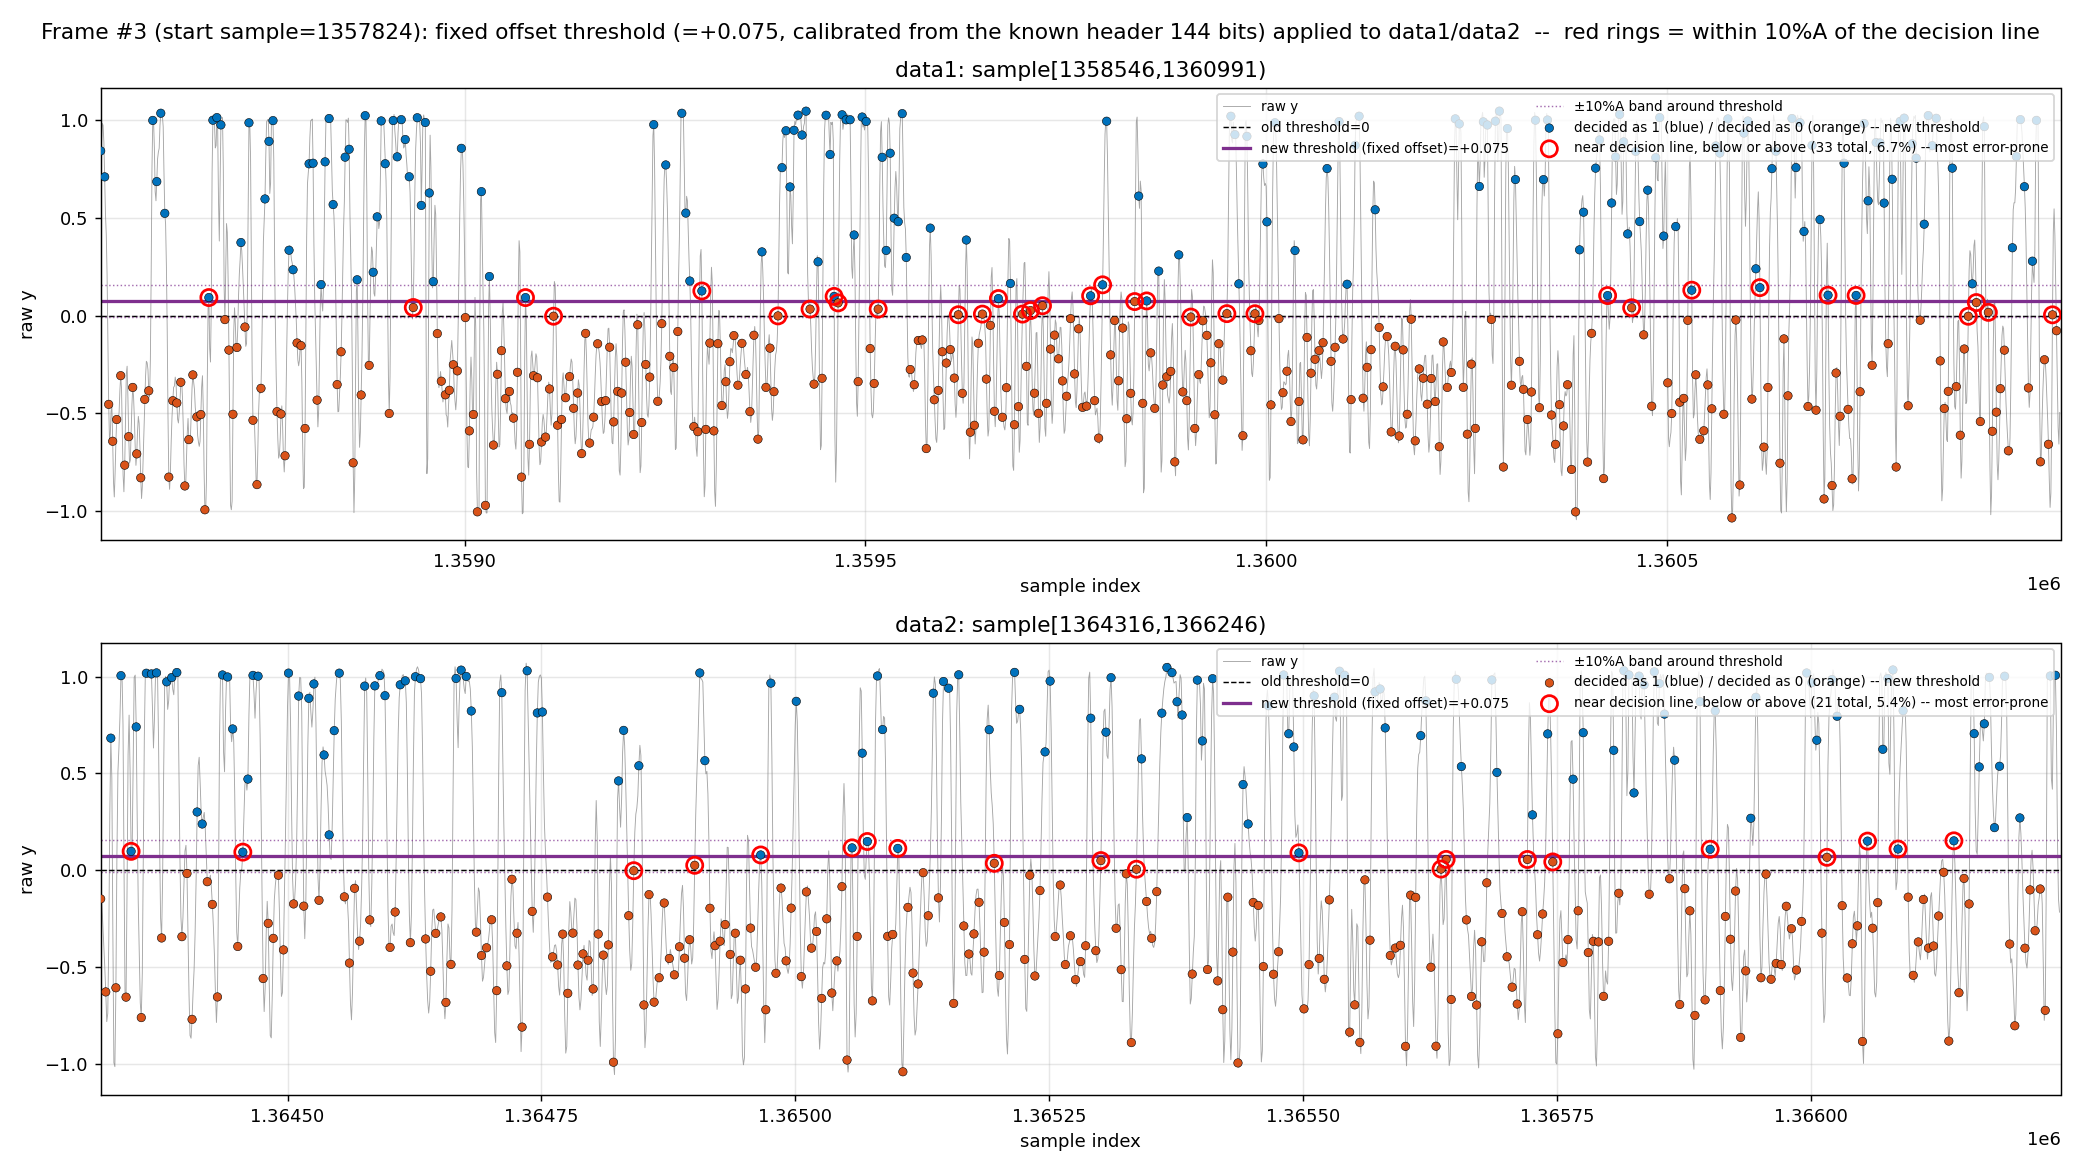
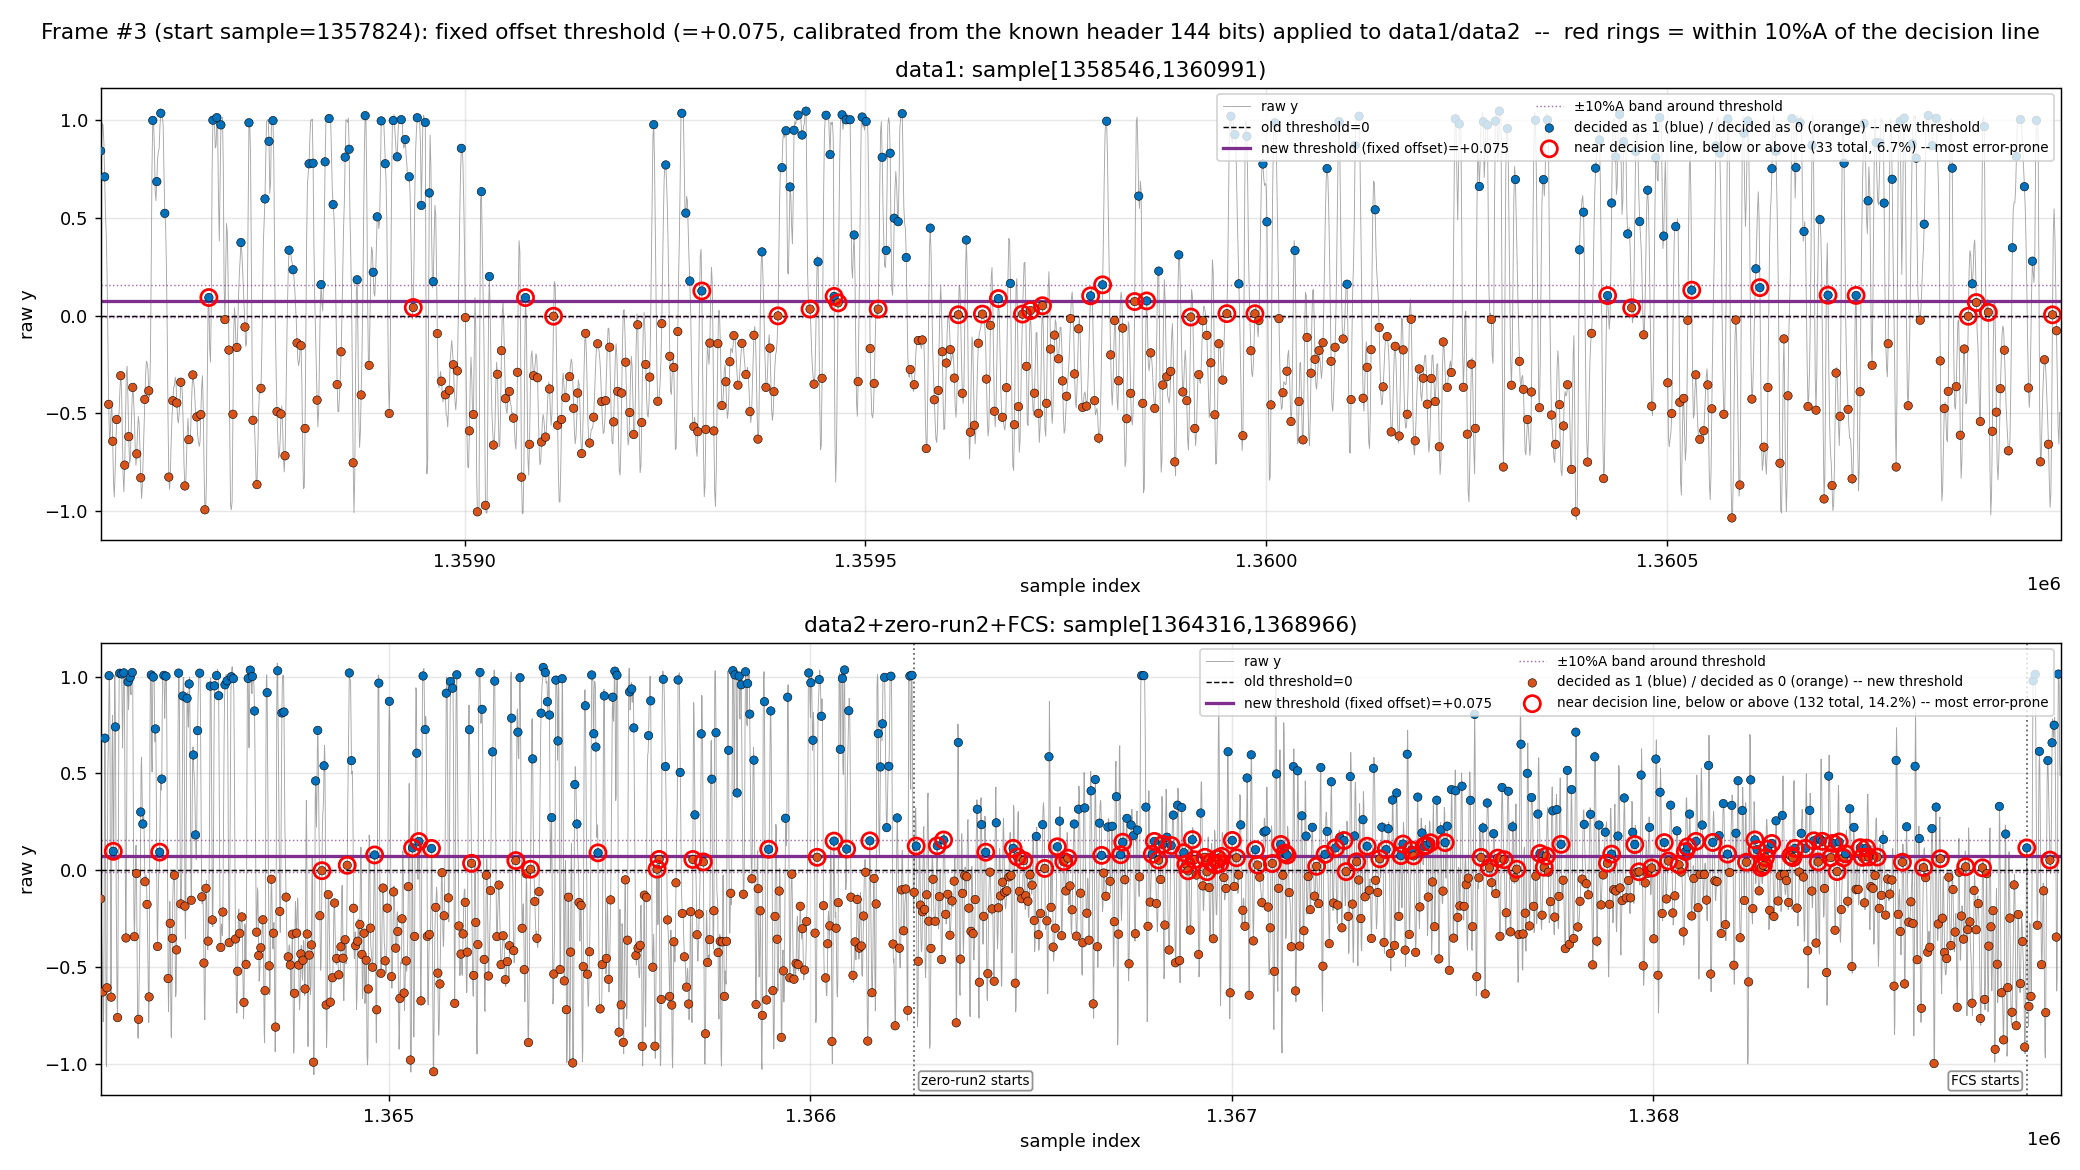
Extend 03b's data2 panel through zero-run2 and FCS
data2's plotted/analyzed range now runs through zero-run2 and the 2-byte
FCS instead of stopping at data2's natural end, with both boundaries
marked on the plot. Shows the header-calibrated threshold applied to the
all-zero padding and the CRC bits, not just the data2 telemetry -- most of
the added near-decision-line symbols land inside zero-run2, consistent
with 02_zero_run_baseline's isolated-1 findings. README updated to match.

Changed region(s): [[0.0312, 0.5231, 1.0, 0.9538], [0.375, 0.9231, 0.4062, 0.9538]]

diff --git a/03_data_segment_processing/03b_data_fixed_offset_threshold.py b/03_data_segment_processing/03b_data_fixed_offset_threshold.py
@@ -17,7 +17,9 @@ README). Once each frame's start is found:
   2. Use the "bypass method" (sample the raw y at a fixed rate and destuff it
      directly, without going through restore_baseline) to track each output
      bit's original sample index, and compute this frame's own exact
-     data1/data2 sample ranges.
+     data1/data2 sample ranges. data2's range is extended past its natural
+     end through zero-run2 and FCS (see GNURADIO_MIGRATION.md), with the
+     internal boundaries marked on the plot.
   3. Apply step 1's threshold to data1/data2 unchanged (assuming the
      asymmetry is a fixed property of the channel/demodulator, not dependent
      on content, and shared across the whole frame), overlaying the decision
@@ -171,7 +173,19 @@ def calibrate_offset_threshold(y, start):
 def get_data_segments(y, start):
     """Bypass method (sample the raw y at a fixed rate and destuff directly,
     without going through restore_baseline) to compute this frame's exact
-    data1/data2 sample ranges. Returns [(name, s0, s1), ...]."""
+    data1/data2 sample ranges.
+
+    data2's range is extended past its natural end (payload byte 206, where
+    zero-run2 begins) all the way through FCS (byte [272,274)), so the
+    second panel shows the header-calibrated threshold applied across
+    zero-run2 and the CRC too -- see GNURADIO_MIGRATION.md: FCS rides along
+    with the data segments rather than getting its own pass-through, since
+    its bits look like ordinary signal content, not the all-zero padding
+    zero-run2 is. `markers` records where those internal boundaries fall
+    (empty for data1) so the caller can annotate them.
+
+    Returns [(name, s0, s1, markers), ...] for data1 and extended data2,
+    where markers is a list of (label, sample_index)."""
     span_j1 = int(SEARCH_SAMPLES / SPS)
     idx_all = start + SPS * np.arange(0, span_j1) + PHASE
     ok = idx_all < y.size
@@ -179,6 +193,10 @@ def get_data_segments(y, start):
     body_bits_raw = (y[idx_all[32:]] > 0).astype(np.uint8)   # skip the leading 4 flags
     body_idx_raw = idx_all[32:]
     body_bits, body_sample_idx = destuff_with_map(body_bits_raw, body_idx_raw)
+
+    def sample_at_byte(byte_idx):
+        bit = min(byte_idx * 8, body_sample_idx.size - 1)
+        return int(body_sample_idx[bit])
 
     zero_runs = find_zero_runs(REF)
     segments = [("address", 0, 14)]
@@ -192,6 +210,7 @@ def get_data_segments(y, start):
         seg_id += 1
     if prev < 272:
         segments.append((f"data{seg_id}", prev, 272))
+    segments.append(("FCS", 272, 274))   # 2-byte CRC-16/X.25, appended after the 272-byte payload
 
     data_segs = []
     for label, b0, b1 in segments:
@@ -202,8 +221,23 @@ def get_data_segments(y, start):
             continue
         s0 = int(body_sample_idx[bit0])
         s1 = int(body_sample_idx[min(bit1, body_sample_idx.size) - 1]) + SPS
-        data_segs.append((label, s0, s1))
-    return data_segs[:2]   # data1, data2
+        data_segs.append([label, s0, s1, []])
+    data_segs = data_segs[:2]   # data1, data2
+
+    if len(data_segs) >= 2:
+        zero_run2 = next((seg for seg in segments if seg[0] == "zero-run2"), None)
+        fcs = segments[-1]   # ("FCS", 272, 274)
+        markers = []
+        if zero_run2 is not None:
+            markers.append(("zero-run2 starts", sample_at_byte(zero_run2[1])))
+        markers.append(("FCS starts", sample_at_byte(fcs[1])))
+        bit1_fcs = min(fcs[2] * 8, body_sample_idx.size)
+        s1_ext = int(body_sample_idx[bit1_fcs - 1]) + SPS
+        data_segs[1][0] = f"{data_segs[1][0]}+zero-run2+FCS"
+        data_segs[1][2] = s1_ext
+        data_segs[1][3] = markers
+
+    return [tuple(seg) for seg in data_segs]
 
 
 def plot_frame(plt, y, start, frame_no, z_score, data_segs, offset_thr, hdr_err):
@@ -219,7 +253,7 @@ def plot_frame(plt, y, start, frame_no, z_score, data_segs, offset_thr, hdr_err)
           f"  -> band = [{offset_thr-margin:+.4f}, {offset_thr+margin:+.4f}]")
 
     fig, axes = plt.subplots(2, 1, figsize=(16, 9))
-    for ax, (name, s0, s1) in zip(axes, data_segs):
+    for ax, (name, s0, s1, markers) in zip(axes, data_segs):
         j0 = round((s0 - start - PHASE) / SPS)
         j1 = round((s1 - start - PHASE) / SPS)
         idx_sym = start + SPS * np.arange(j0, j1) + PHASE
@@ -251,6 +285,17 @@ def plot_frame(plt, y, start, frame_no, z_score, data_segs, offset_thr, hdr_err)
                       edgecolors="red", linewidths=1.5, zorder=5,
                       label=f"near decision line, below or above ({near.sum()} total, "
                             f"{100*near.sum()/(j1-j0):.1f}%) -- most error-prone")
+
+        ylo, yhi = ax.get_ylim()
+        for label, s_marker in markers:
+            ax.axvline(s_marker, color="k", lw=1.0, ls=":", alpha=0.6)
+            near_right_edge = (s_marker - s0) > 0.85 * (s1 - s0)
+            dx, ha = (-4, "right") if near_right_edge else (4, "left")
+            # anchored at the bottom, not the top -- the legend sits upper-right,
+            # and markers can land close enough to the right edge to collide with it
+            ax.annotate(label, xy=(s_marker, ylo), xytext=(dx, 4),
+                       textcoords="offset points", fontsize=7.5, ha=ha, va="bottom",
+                       bbox=dict(boxstyle="round,pad=0.2", fc="white", ec="gray", alpha=0.85))
 
         ax.set_xlim(s0, s1)
         ax.set_xlabel("sample index")

diff --git a/03_data_segment_processing/README.md b/03_data_segment_processing/README.md
@@ -13,7 +13,7 @@ the header to data1/data2, presented via two scripts:
 | Script | Content | Output |
 |---|---|---|
 | `03a_data_asymmetry_check.py` | Shows the asymmetry itself: per-point color coding + each group's local moving average, to see whether the asymmetry drifts slowly with position | `Figure/03a_frame1.png`, `03a_frame2.png`, `03a_frame3.png` |
-| `03b_data_fixed_offset_threshold.py` | Applies the calibrated fixed offset threshold to data1/data2, overlaying the decision line, and rings every symbol sitting close to that line -- below **or** above it | `Figure/03b_frame1.png`, `03b_frame2.png`, `03b_frame3.png` |
+| `03b_data_fixed_offset_threshold.py` | Applies the calibrated fixed offset threshold to data1/data2, overlaying the decision line, and rings every symbol sitting close to that line -- below **or** above it. The second panel's range is extended past data2 through zero-run2 and FCS, with those boundaries marked | `Figure/03b_frame1.png`, `03b_frame2.png`, `03b_frame3.png` |
 
 Both scripts' frame detection uses the same method as
 [`01_frame_detection/`](../01_frame_detection/) (normalized
@@ -84,6 +84,12 @@ packet's (`../REFERENCE_FRAME.md`) known field boundaries (data1 = payload
 byte `[14,75)`, data2 = payload byte `[158,206)`) and convert them back into
 sample ranges, giving this frame's own exact `data1`/`data2` sample ranges.
 
+`03b` extends data2's range one step further, through zero-run2
+(`[206,272)`) and FCS (`[272,274)`, the 2-byte CRC-16/X.25 appended after the
+272-byte payload) -- so its second panel plots data2+zero-run2+FCS as one
+continuous span, with the zero-run2/FCS boundaries marked as vertical dotted
+lines. `03a` is unaffected and still plots data2 alone.
+
 ### 4a. Show the asymmetry (`03a`)
 
 Use $\theta^*$ to split each symbol in data1/data2 into "decided as 1" /
@@ -121,6 +127,11 @@ error-prone candidates. No bit error rate is computed -- the data segments'
 content changes frame to frame, so there's no reliable ground truth to
 compare against.
 
+The second panel's extended range (data2+zero-run2+FCS) applies $\theta^*$
+unchanged across all three -- i.e. it shows what the same header-calibrated
+threshold does to the all-zero padding and the CRC, not just the telemetry
+`03a` was built around.
+
 ## Key findings
 
 - **The asymmetry reproduces across all three frames**, though the
@@ -147,6 +158,13 @@ compare against.
   comparison at all. These are the natural starting point for the "check
   against an actually-decoded frame" direction in the main README, since
   they're low-confidence independent of which exact threshold is correct.
+- **Extending the second panel through zero-run2+FCS roughly doubles the
+  near-decision-line fraction** (from ~2-7% over data2 alone to ~10-14% over
+  data2+zero-run2+FCS, across the three frames) -- most of the added
+  low-confidence symbols fall inside zero-run2, consistent with
+  `02_zero_run_baseline/`'s finding that the all-zero padding isn't cleanly
+  resolved either (its "isolated 1s" are exactly this same low-confidence
+  population, seen from the other side).
 
 ## How to run
 
